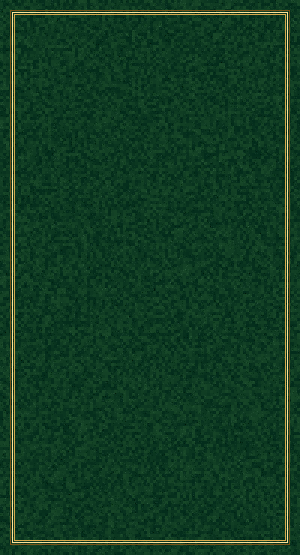
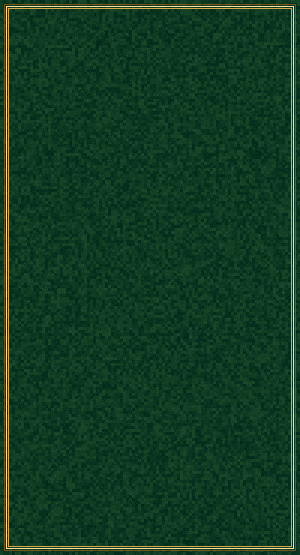
Fix panel frame inset and a residual line by the fullscreen toggle
The panel's gold frame sat 14px in from its edge while the board's sat only
8px in, so the panel frame read as noticeably smaller/more inset than the
board frame despite both being meant to match. Both now use inset=8
(gen_felt_bg.py, now tracked so the felt backgrounds are reproducible),
panel_bg.png regenerated - confirmed by pixel measurement that both frames
now sit 6px from their outer edge.

HideGameFullButton/DrawGameFullButton cleared exactly the button's own
(y, y+h) strip when repainting the felt underneath - DrawButtonBg's border
line rendered slightly outside that range, leaving a 1px black stripe above
the button whenever it was hidden during a computer turn. Both clears now
pad 3px upward.

Changed region(s): [[0.0, 0.0, 0.99, 1.0]]

diff --git a/gen_felt_bg.py b/gen_felt_bg.py
@@ -1,0 +1,93 @@
+"""Dunkler Casino-Filz-Hintergrund mit goldenen Zierlinien, fuer Panel und
+Spielbrett-Rand. Chunkiges Retro-Pixel-Rendering (grobe Bloecke statt
+Photoreal-Glaetten), damit es zum restlichen Spiel passt.
+"""
+import random
+from PIL import Image, ImageDraw, ImageFilter
+
+def clamp(v): return max(0, min(255, int(v)))
+
+def felt_texture(W, H, base=(13, 58, 34), seed=1, block=3):
+    random.seed(seed)
+    img = Image.new("RGB", (W, H), base)
+    px = img.load()
+    for by in range(0, H, block):
+        for bx in range(0, W, block):
+            n = random.randint(-10, 10)
+            col = (clamp(base[0]+n), clamp(base[1]+n*1.3), clamp(base[2]+n*0.6))
+            for y in range(by, min(by+block, H)):
+                for x in range(bx, min(bx+block, W)):
+                    px[x, y] = col
+    # sehr feines Rauschen obendrauf fuer Stoff-Anmutung
+    for _ in range(W * H // 6):
+        x = random.randrange(W); y = random.randrange(H)
+        n = random.randint(-14, 14)
+        r, g, b = px[x, y]
+        px[x, y] = (clamp(r+n), clamp(g+n), clamp(b+n))
+    return img
+
+def vignette(img, strength=90):
+    W, H = img.size
+    v = Image.new("L", (W, H), 0)
+    dv = ImageDraw.Draw(v)
+    dv.ellipse([-W*0.25, -H*0.25, W*1.25, H*1.25], fill=255)
+    v = v.filter(ImageFilter.GaussianBlur(min(W, H) * 0.12))
+    dark = Image.new("RGB", (W, H), (0, 0, 0))
+    return Image.composite(img, dark, v.point(lambda p: 255 - int((255-p) * strength/255)))
+
+GOLD = (214, 168, 74)
+GOLD_HI = (255, 224, 150)
+GOLD_LO = (120, 84, 24)
+
+def draw_gold_frame(d, x0, y0, x1, y1, inset=10, w=3):
+    # Doppelte Zierlinie GENAU am inset - das definiert die Grenze des
+    # nutzbaren Innenbereichs, an die sich der Hollywood-Code exakt haelt
+    # (panelMargin/boardMargin muessen mit diesem inset uebereinstimmen).
+    d.rectangle([x0+inset-4, y0+inset-4, x1-inset+4, y1-inset+4], outline=GOLD_LO)
+    d.rectangle([x0+inset-2, y0+inset-2, x1-inset+2, y1-inset+2], outline=GOLD_HI)
+    d.rectangle([x0+inset,   y0+inset,   x1-inset,   y1-inset],   outline=GOLD)
+
+def corner_flourish(d, cx, cy, flip_x=1, flip_y=1, size=22):
+    s = size
+    pts = []
+    for t in range(0, 91, 6):
+        import math
+        rad = math.radians(t)
+        x = cx + flip_x * s * math.sin(rad)
+        y = cy + flip_y * s * (1 - math.cos(rad))
+        pts.append((x, y))
+    d.line(pts, fill=GOLD, width=2)
+    d.ellipse([cx-3, cy-3, cx+3, cy+3], fill=GOLD_HI)
+
+def make_panel_bg(W=300, H=555):
+    img = felt_texture(W, H, seed=7)
+    img = vignette(img, strength=70)
+    d = ImageDraw.Draw(img)
+    # inset=8, wie beim Board - der Rahmen sass vorher bei 14 und wirkte dadurch
+    # deutlich kleiner/eingerueckter als der Board-Rahmen (naeher am Bildrand
+    # gesetzt bei nur 8). Gleicher inset -> Rahmen wirkt links/rechts gleich
+    # gross. Inhalt startet weiterhin bei panelMargin=22, jetzt mit 14px statt
+    # 8px Luft zur Linie - unkritisch, nur mehr Abstand.
+    draw_gold_frame(d, 0, 0, W-1, H-1, inset=8)
+    return img
+
+def make_board_bg(W=510, H=555):
+    img = felt_texture(W, H, seed=3)
+    img = vignette(img, strength=60)
+    d = ImageDraw.Draw(img)
+    draw_gold_frame(d, 0, 0, W-1, H-1, inset=8)   # unveraendert, Board-Layout ist eng bemessen
+    return img
+
+if __name__ == "__main__":
+    out = r"C:\Users\Philipp\AppData\Local\Temp\claude\C--Users-Philipp-OneDrive-Dokumente-claude\ae39f59a-7fca-4682-9b9e-d192f8e20b4e\scratchpad"
+    panel = make_panel_bg()
+    board = make_board_bg()
+    panel.save(f"{out}/panel_bg.png")
+    board.save(f"{out}/board_bg.png")
+
+    # Mockup: beide nebeneinander wie im Spiel (Board links, Panel rechts)
+    mock = Image.new("RGB", (810, 555))
+    mock.paste(board, (0, 0))
+    mock.paste(panel, (508, 0))
+    mock.save(f"{out}/bg_mockup_full.png")
+    print("gespeichert:", panel.size, board.size)
